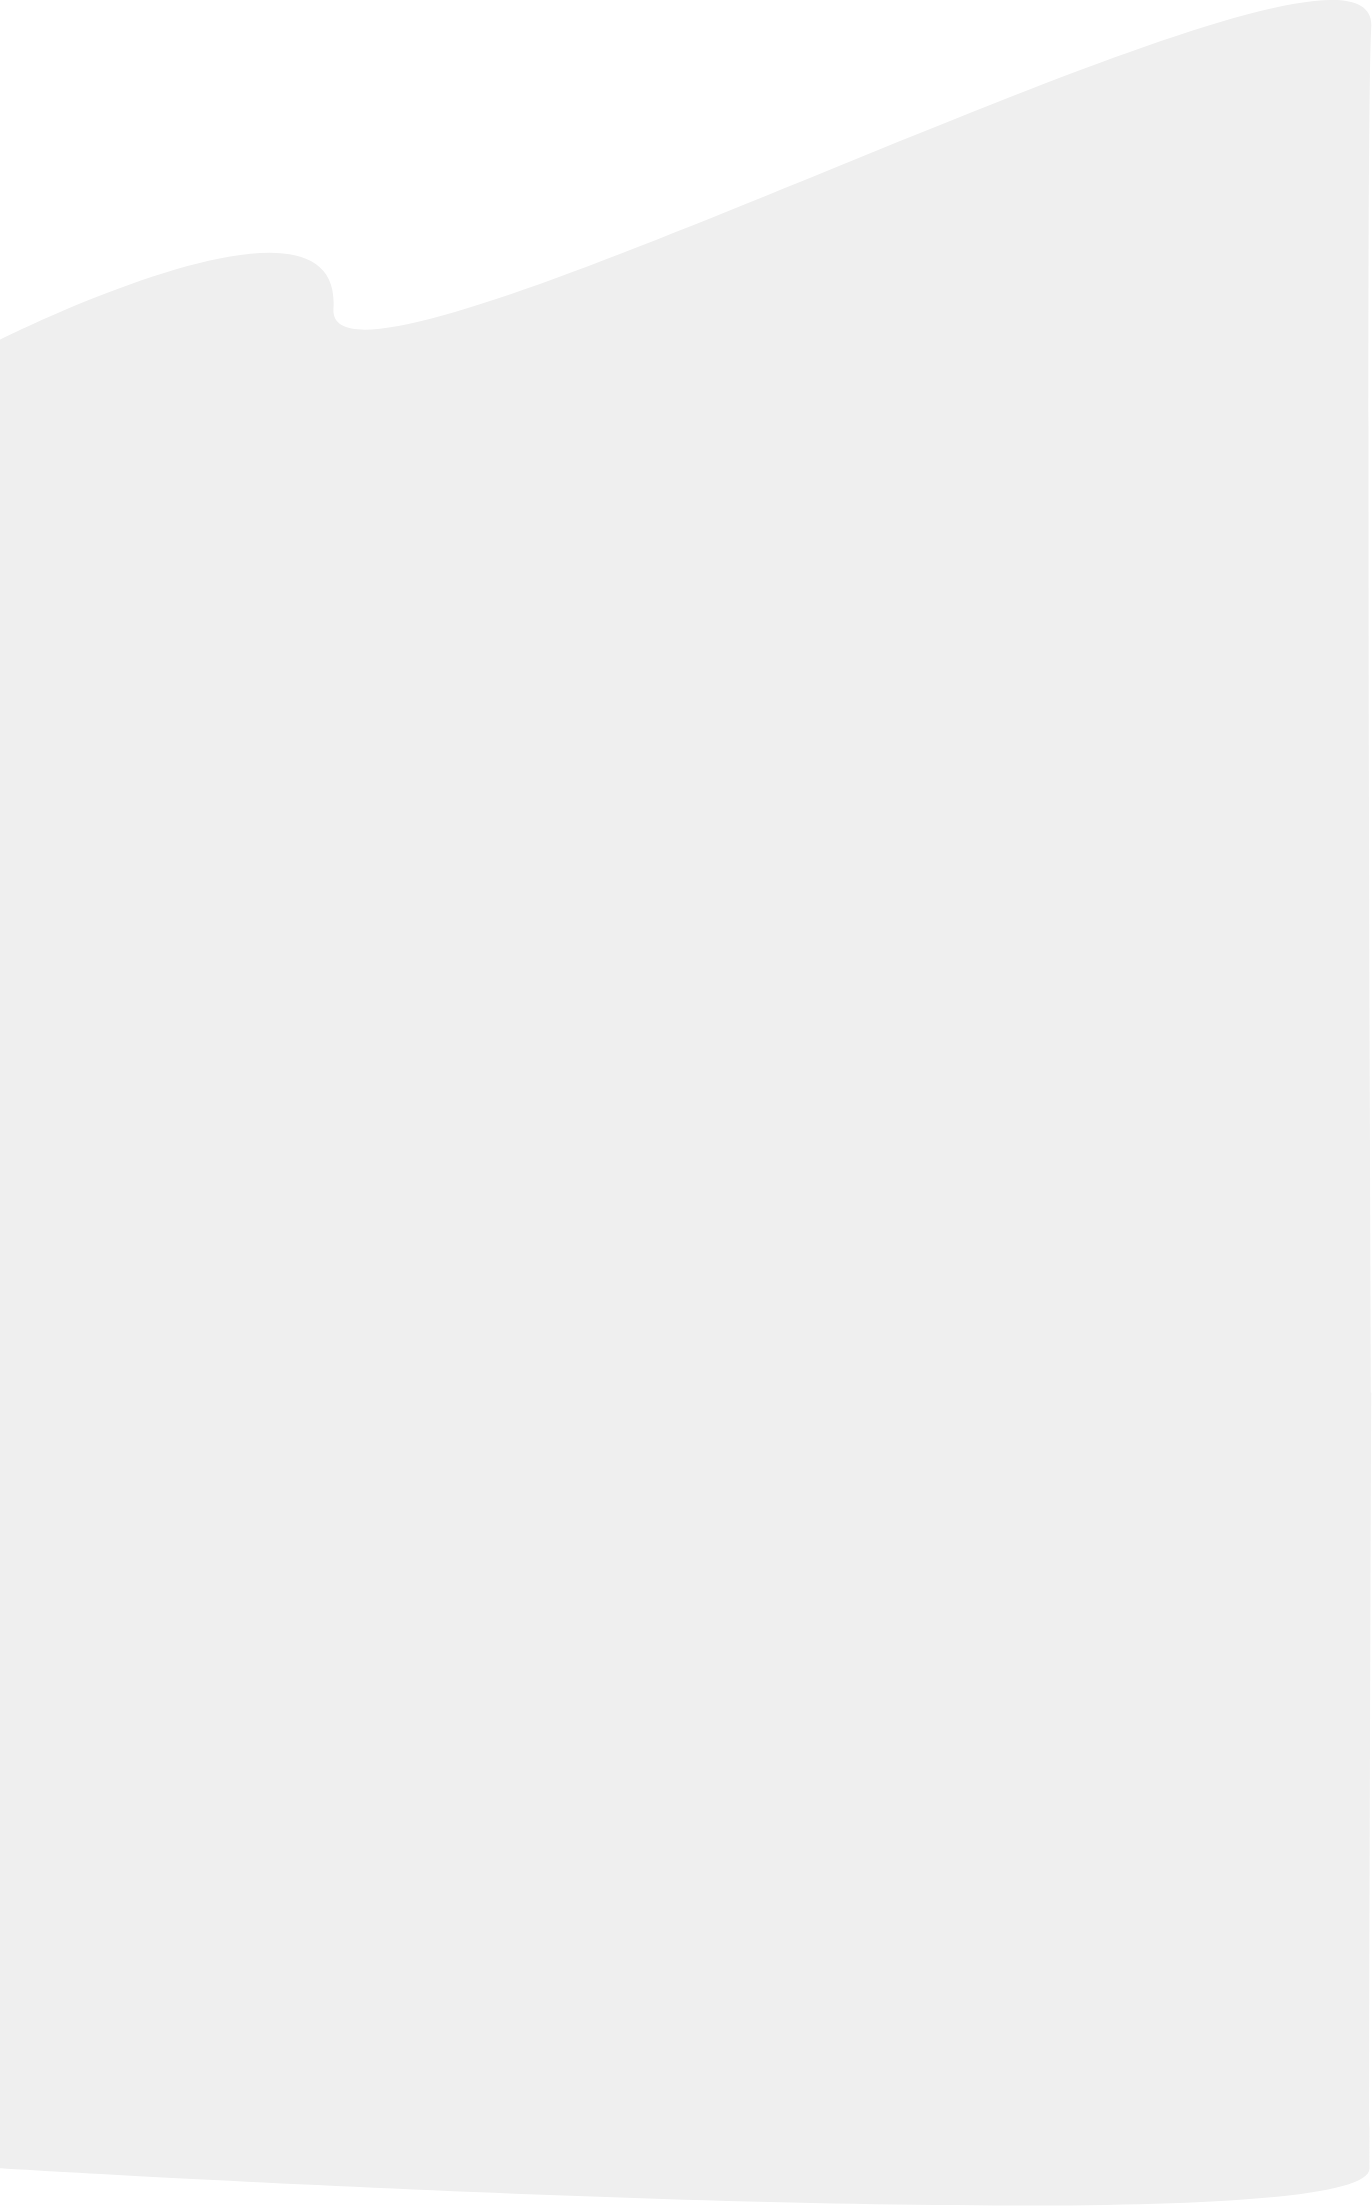
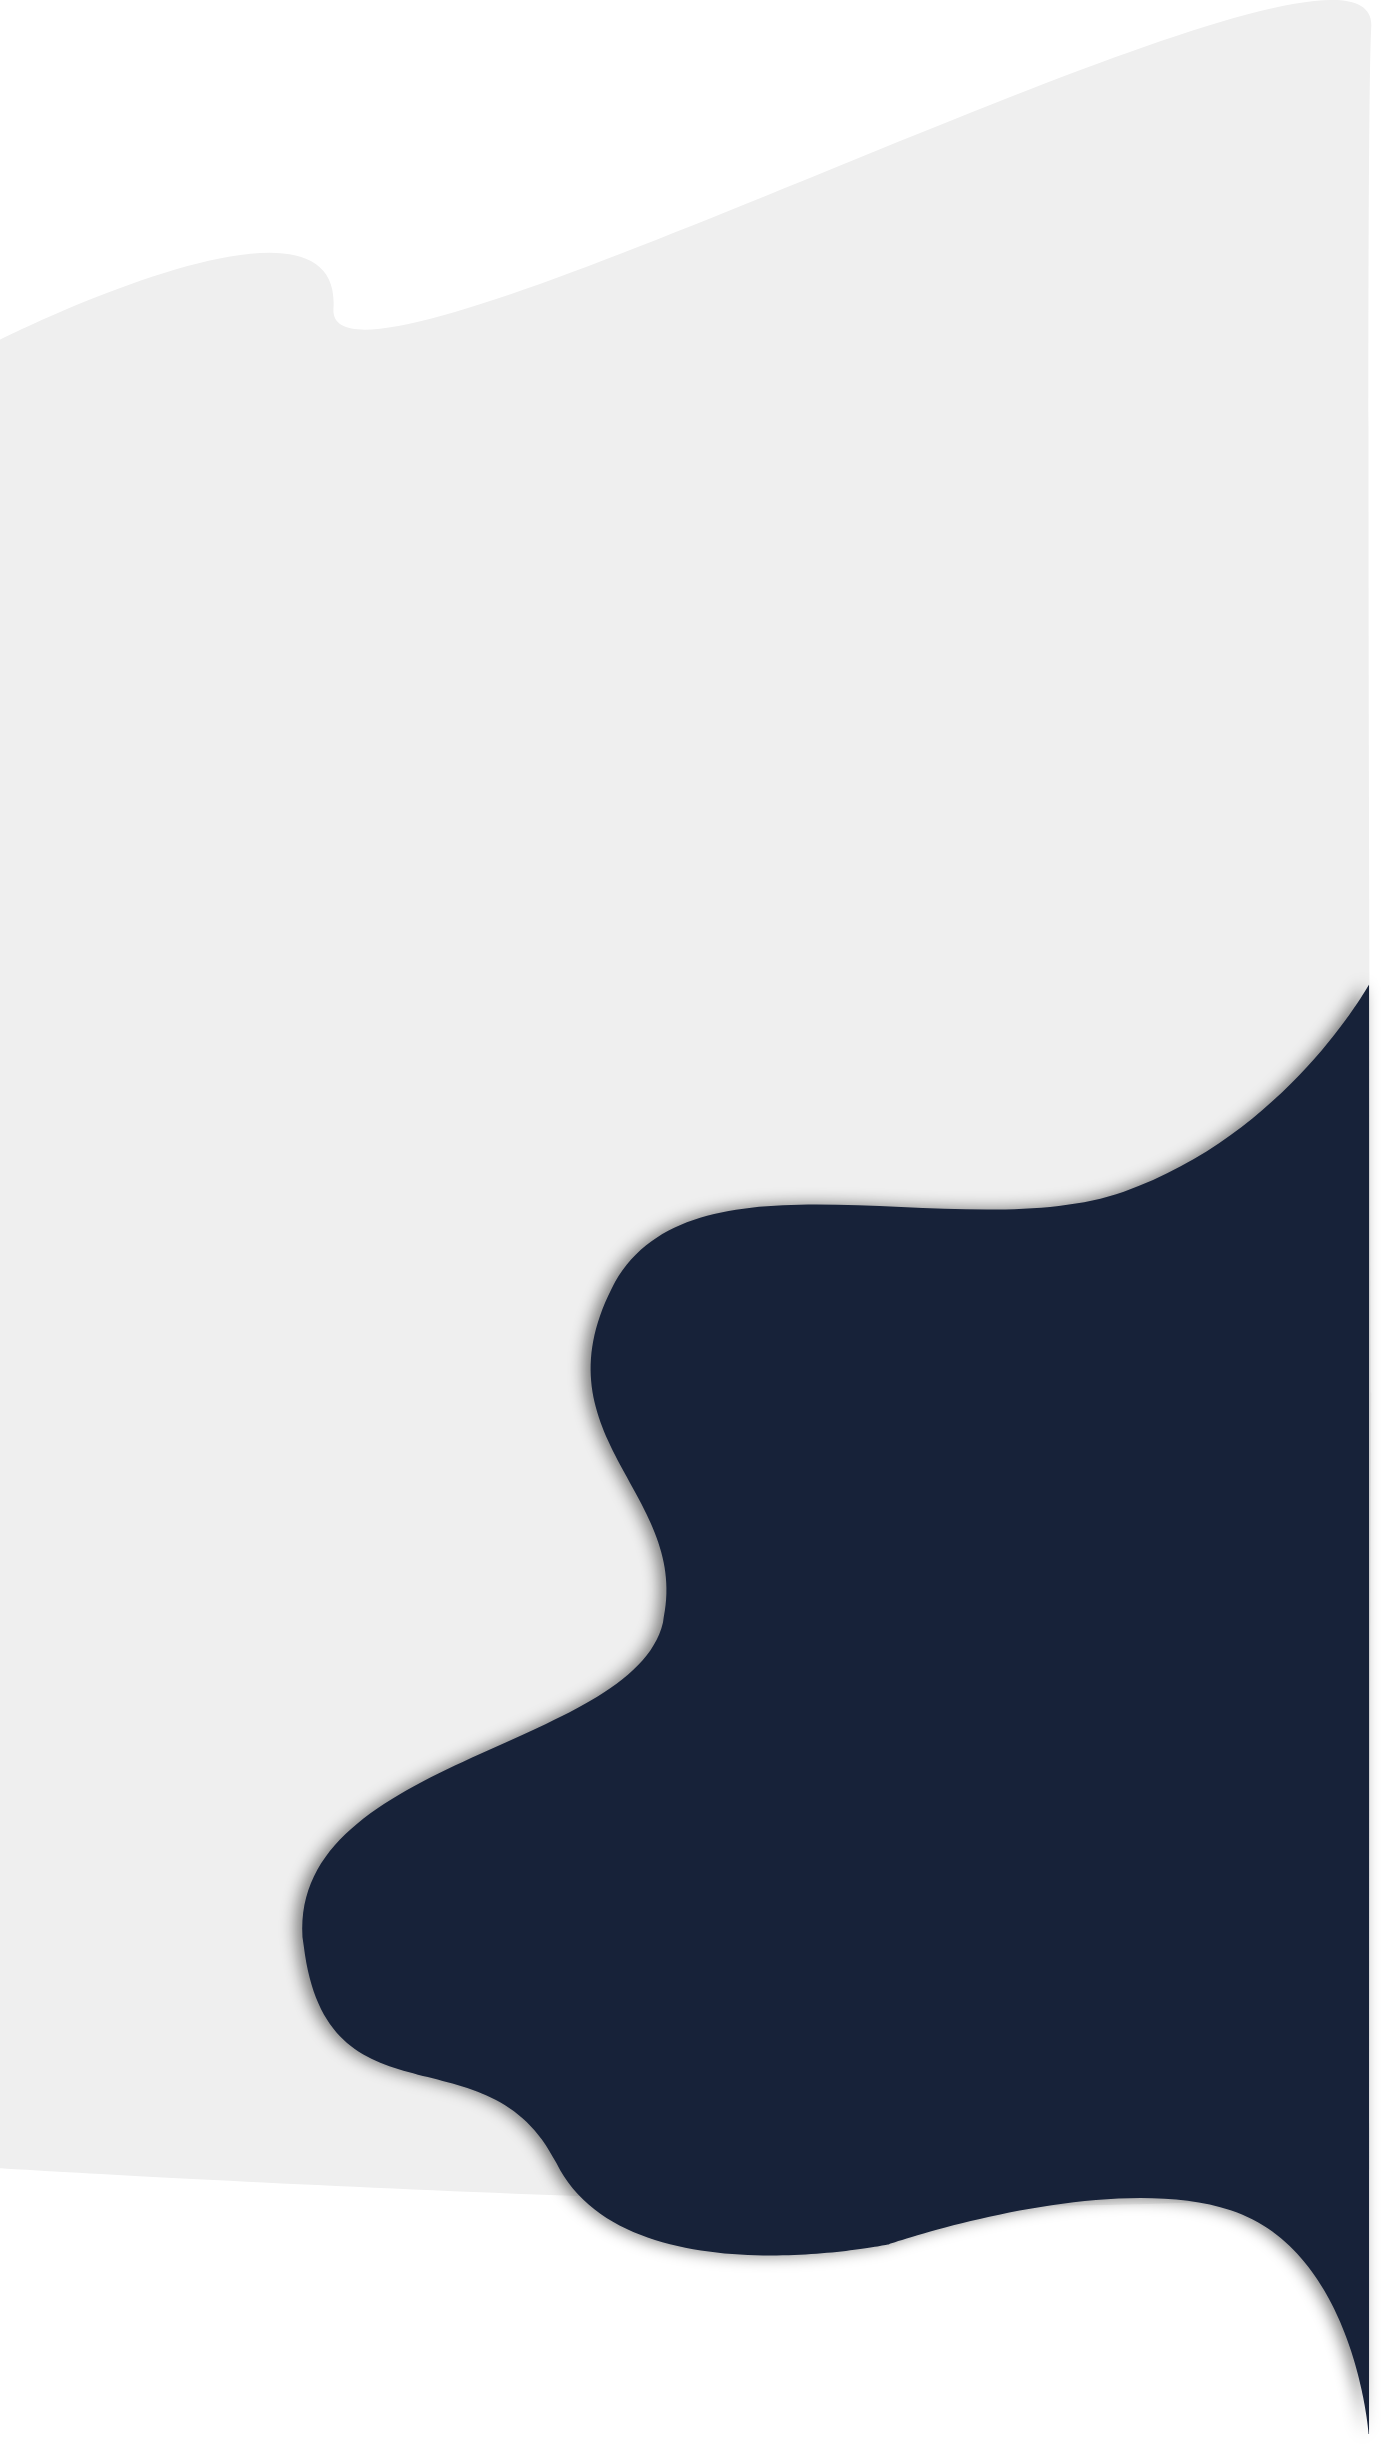
add advantages section

Changed region(s): [[0.1837, 0.4007, 1.0, 0.9864]]

diff --git a/index.html b/index.html
@@ -82,6 +82,7 @@
 
 		<section class="advantages">
 			<div class="inner-advantages">
+				<div class="left-block">
 				<h2 class="platform-title">ADVANTAGES FOR INVESTORS</h2>
 
 				<ul>
@@ -96,6 +97,24 @@
 					<li>agasgklajsklgjajsklgjas;kgjaslgjal jjagjsa jlj ajlj lalsjf</li>
 					<li>agasgklajsklgjajsklgjas;kgjaslgjal jjagjsa jlj ajlj lalsjf</li>
 				</ul>
+				</div>
+
+				<div class="right-block">
+					<h2 class="platform-title">ADVANTAGES FOR INVESTORS</h2>
+
+					<ul>
+						<li>agasgklajsklgjajsklgjas;kgjaslgjal jjagjsa jlj ajlj lalsjf</li>
+						<li>agasgklajsklgjajsklgjas;kgjaslgjal jjagjsa jlj ajlj lalsjf</li>
+						<li>agasgklajsklgjajsklgjas;kgjaslgjal jjagjsa jlj ajlj lalsjf</li>
+						<li>agasgklajsklgjajsklgjas;kgjaslgjal jjagjsa jlj ajlj lalsjf</li>
+						<li>agasgklajsklgjajsklgjas;kgjaslgjal jjagjsa jlj ajlj lalsjf</li>
+						<li>agasgklajsklgjajsklgjas;kgjaslgjal jjagjsa jlj ajlj lalsjf</li>
+						<li>agasgklajsklgjajsklgjas;kgjaslgjal jjagjsa jlj ajlj lalsjf</li>
+						<li>agasgklajsklgjajsklgjas;kgjaslgjal jjagjsa jlj ajlj lalsjf</li>
+						<li>agasgklajsklgjajsklgjas;kgjaslgjal jjagjsa jlj ajlj lalsjf</li>
+						<li>agasgklajsklgjajsklgjas;kgjaslgjal jjagjsa jlj ajlj lalsjf</li>
+					</ul>
+				</div>
 			</div>
 
 			<img class="advantages-bg" src="images/advantages.png" alt="">

diff --git a/css/style.css b/css/style.css
@@ -118,6 +118,7 @@ a {
 
 .advantages{
 	position: relative;
+	top: 700px;
 }
 
 .inner-platform{
@@ -153,5 +154,18 @@ ul li{
 }
 
 .advantages-bg{
+	background: #212F4F;
+}
 
+.right-block{
+	text-align: right;
+	margin-top: 800px;
+}
+
+.right-block ul li{
+	color: white;
+}
+
+.right-block .platform-title{
+	color: white;
 }
